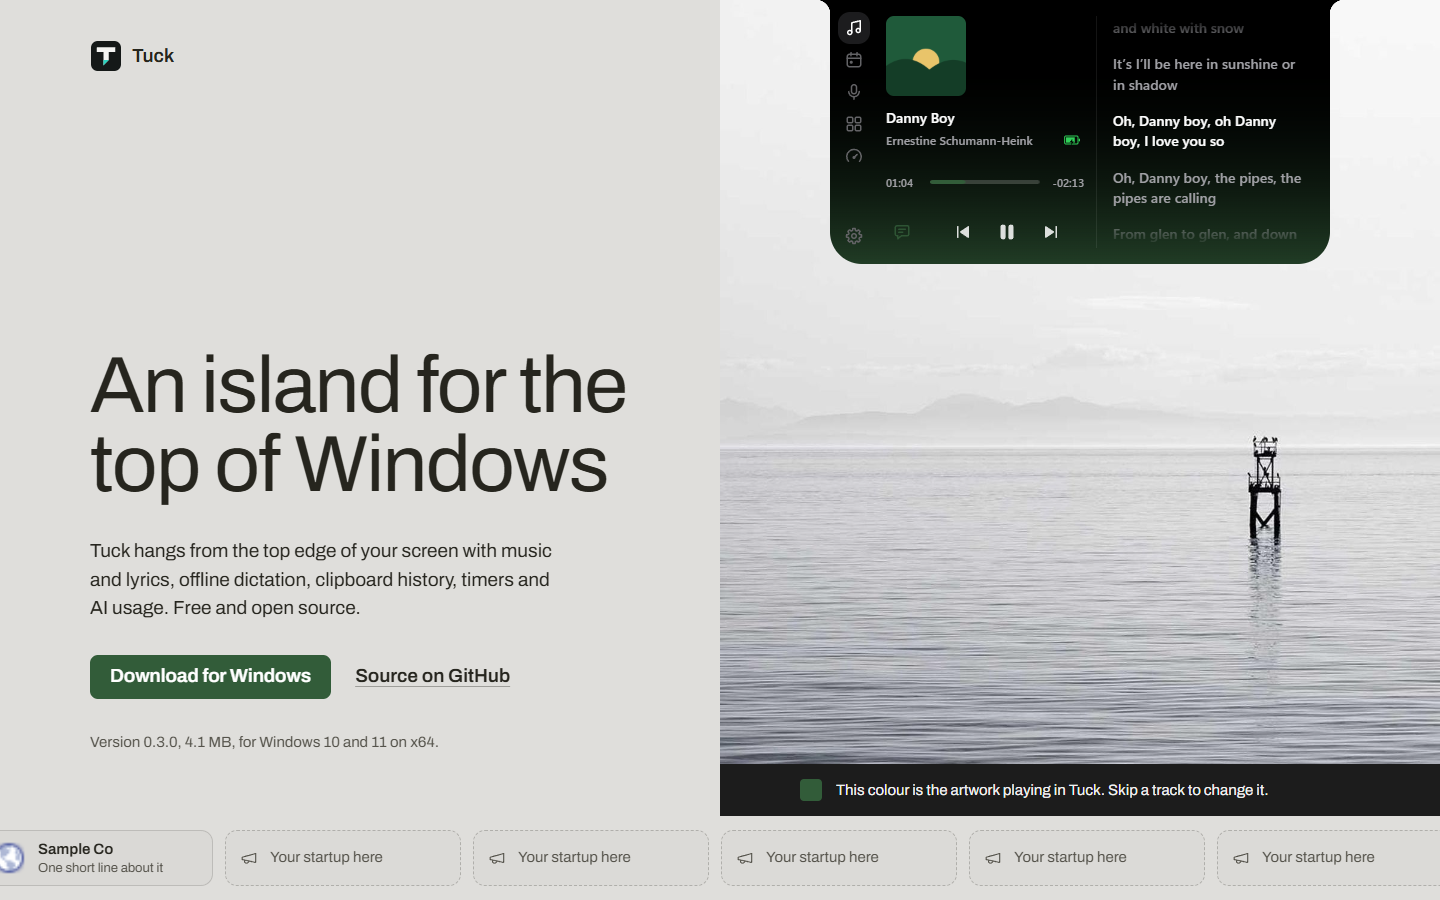
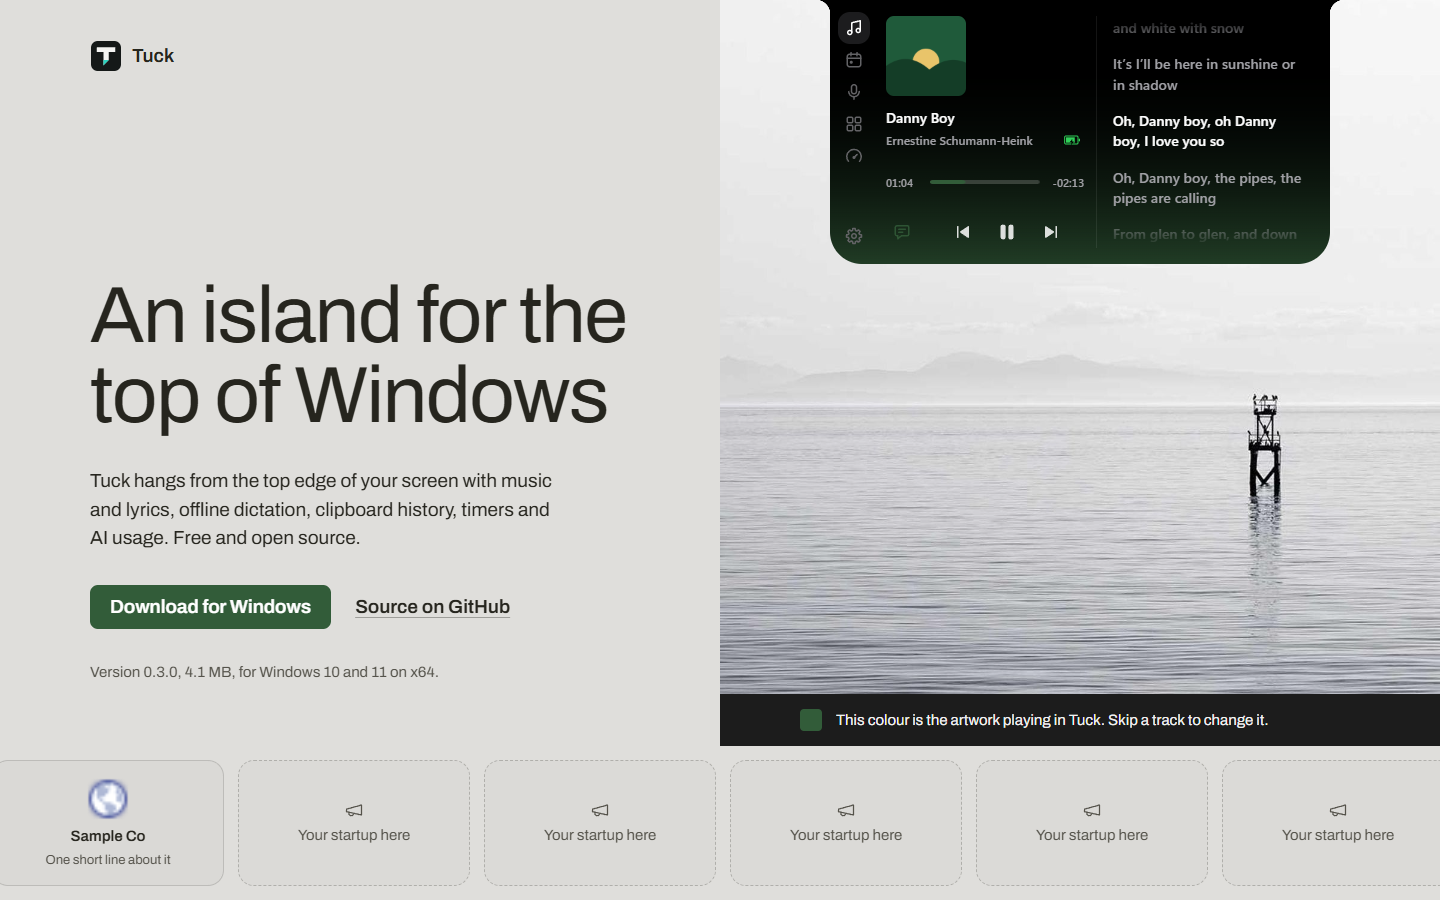
feat(site): desktop strip cards match the rail cards
On desktop the strip uses the rail's card: same design, 232px wide, the
rail's 124px minimum height. The phone bar keeps its compact cards.

diff --git a/site/styles.css b/site/styles.css
@@ -182,14 +182,10 @@ p { margin: 0; text-wrap: pretty; }
 .strip { grid-column: 1 / -1; display: block; overflow-x: auto; overscroll-behavior-x: contain; scrollbar-width: none; padding: 14px var(--edge); background: var(--bg); }
 .strip[hidden] { display: none; }
 .strip::-webkit-scrollbar { display: none; }
-.strip__track, .strip__set { display: flex; gap: 12px; width: max-content; }
-.strip__set { padding-right: 12px; }
-.strip .slot { flex: none; width: 236px; min-height: 56px; padding: 8px 14px; display: grid; grid-template-columns: auto minmax(0, 1fr); align-items: center; justify-items: start; place-content: initial; gap: 0 12px; text-align: left; border-radius: 12px; }
-.strip .slot img { grid-row: span 2; width: 34px; height: 34px; border-radius: 8px; }
-.strip .slot svg { width: 18px; height: 18px; }
-.strip .slot__line { max-width: none; white-space: nowrap; overflow: hidden; text-overflow: ellipsis; width: 100%; }
-.strip .slot__name { white-space: nowrap; overflow: hidden; text-overflow: ellipsis; width: 100%; }
-.strip .slot__price { display: none; }
+.strip__track, .strip__set { display: flex; gap: 14px; width: max-content; }
+.strip__set { padding-right: 14px; }
+/* On desktop the strip's cards are the rail's cards: same design, same 232px width, the rail's 124px minimum height */
+.strip .slot { flex: none; width: 232px; min-height: 124px; }
 
 /* Footer: one quiet line */
 .foot { display: grid; grid-template-columns: 1fr auto 1fr; gap: 16px; align-items: baseline; padding: 0 var(--edge) 30px; font-size: var(--step-small); }
@@ -206,6 +202,15 @@ p { margin: 0; text-wrap: pretty; }
   /* Phones and tablets: the strip is a bar on the bottom edge that steps aside while reading down */
   .strip { position: fixed; inset: auto 0 0 0; z-index: 20; padding: 10px var(--gutter) calc(10px + env(safe-area-inset-bottom)); box-shadow: 0 -10px 30px rgba(38, 37, 30, 0.10); transition: transform 320ms var(--ease-out); } /* taste-skill-ignore: this bar floats over the page */
   .strip--away { transform: translateY(110%); }
+  /* Compact cards in the bar: icon or logo beside one or two lines */
+  .strip__track, .strip__set { gap: 12px; }
+  .strip__set { padding-right: 12px; }
+  .strip .slot { width: 236px; min-height: 56px; padding: 8px 14px; display: grid; grid-template-columns: auto minmax(0, 1fr); align-items: center; justify-items: start; place-content: initial; gap: 0 12px; text-align: left; border-radius: 12px; }
+  .strip .slot img { grid-row: span 2; width: 34px; height: 34px; border-radius: 8px; }
+  .strip .slot svg { width: 18px; height: 18px; }
+  .strip .slot__line { max-width: none; white-space: nowrap; overflow: hidden; text-overflow: ellipsis; width: 100%; }
+  .strip .slot__name { white-space: nowrap; overflow: hidden; text-overflow: ellipsis; width: 100%; }
+  .strip .slot__price { display: none; }
   .has-strip body { padding-bottom: calc(76px + env(safe-area-inset-bottom)); }
   /* Anything brought into view by the keyboard stops above the bar */
   html.has-strip { scroll-padding-bottom: calc(96px + env(safe-area-inset-bottom)); }
